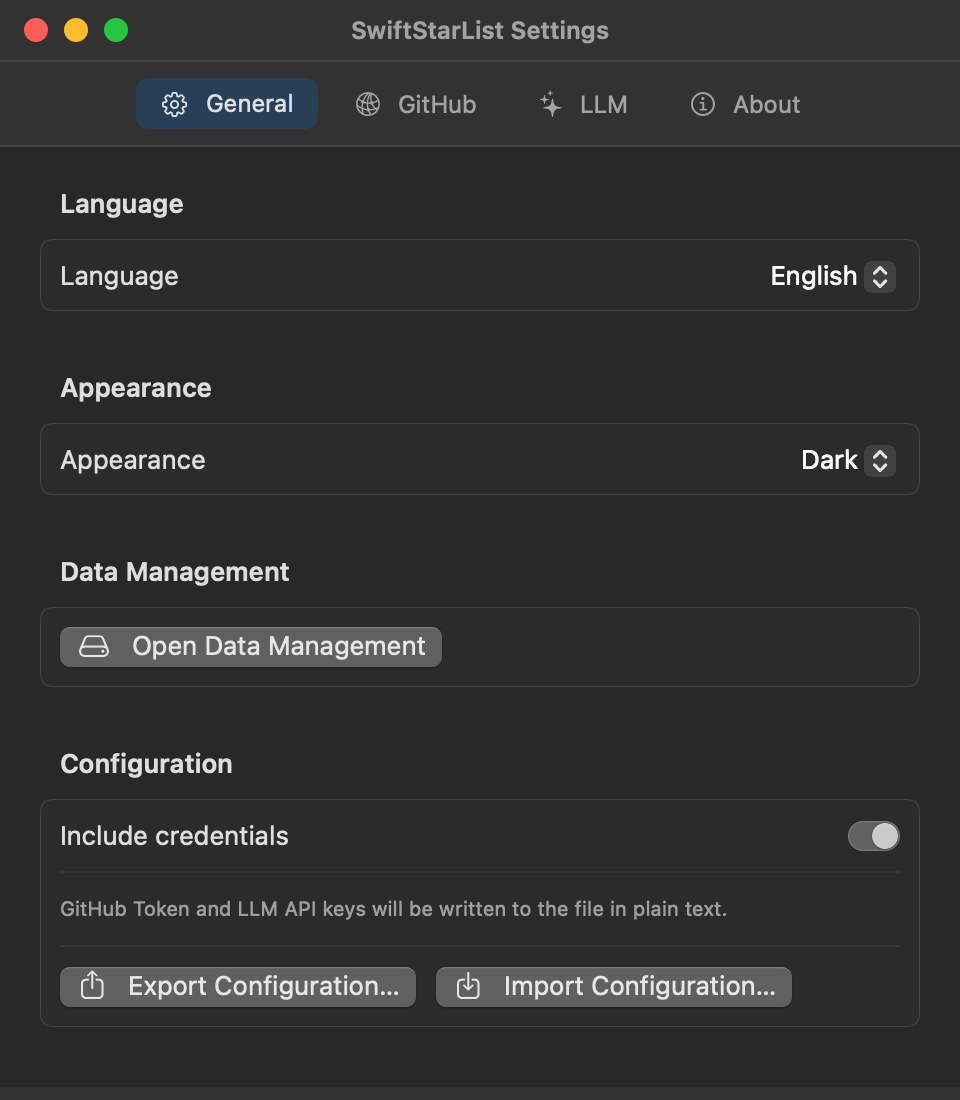
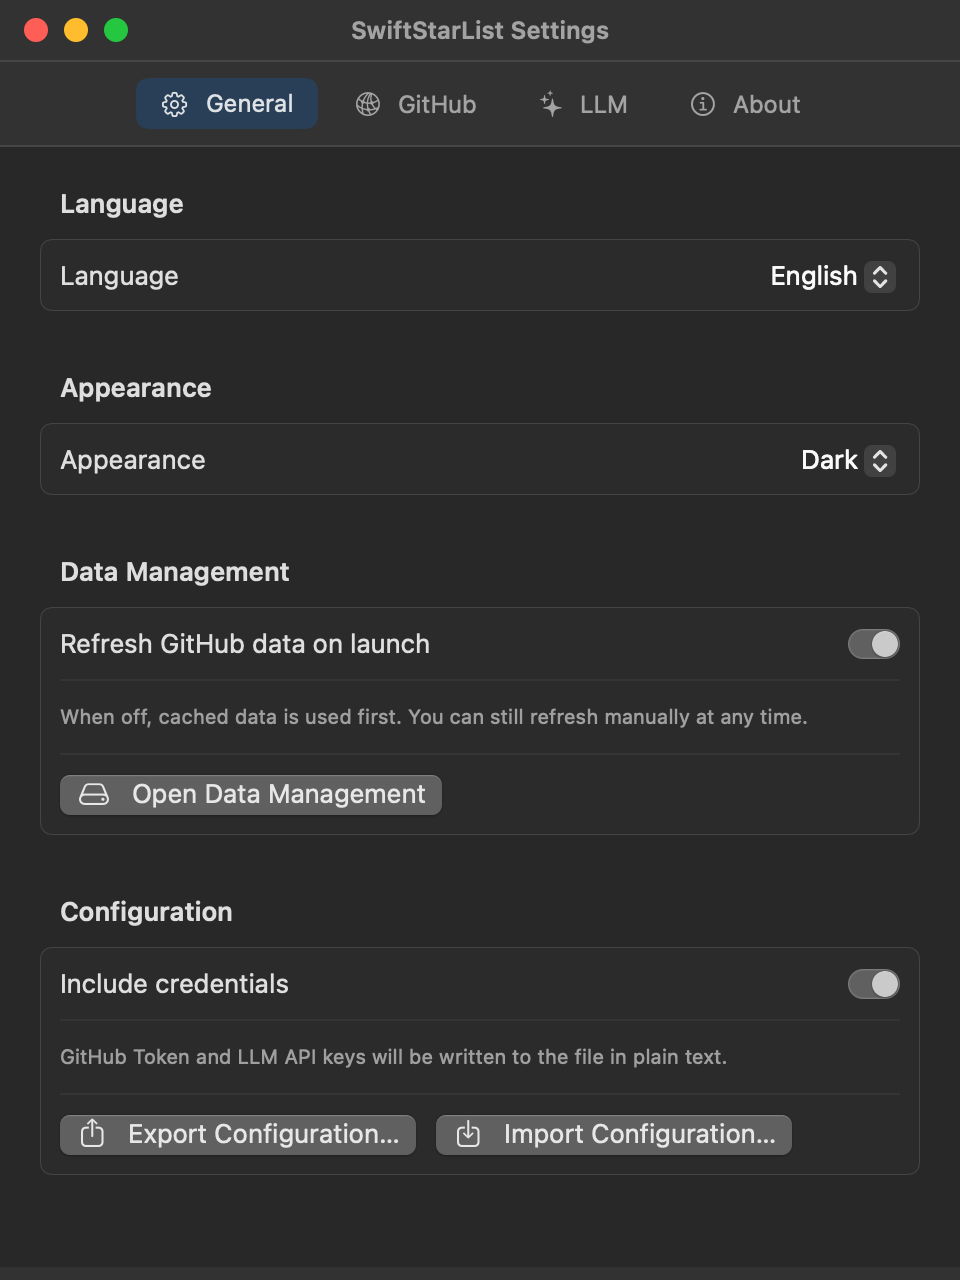
Add option to skip GitHub refresh on launch

diff --git a/SwiftStarList/Models/SettingsModels.swift b/SwiftStarList/Models/SettingsModels.swift
@@ -227,6 +227,8 @@ struct AppSettings: Codable {
     var autoAnalyze: Bool
     var language: AppLanguage
     var theme: AppTheme
+    /// 启动时是否自动刷新 GitHub Star 数据。
+    var refreshOnLaunch: Bool
 
     static let `default` = AppSettings(
         githubToken: "",
@@ -234,6 +236,48 @@ struct AppSettings: Codable {
         llmConfig: .default,
         autoAnalyze: false,
         language: .system,
-        theme: .system
+        theme: .system,
+        refreshOnLaunch: true
     )
+
+    init(
+        githubToken: String,
+        githubProxyConfig: ProxyConfig,
+        llmConfig: LLMConfig,
+        autoAnalyze: Bool,
+        language: AppLanguage,
+        theme: AppTheme,
+        refreshOnLaunch: Bool = true
+    ) {
+        self.githubToken = githubToken
+        self.githubProxyConfig = githubProxyConfig
+        self.llmConfig = llmConfig
+        self.autoAnalyze = autoAnalyze
+        self.language = language
+        self.theme = theme
+        self.refreshOnLaunch = refreshOnLaunch
+    }
+
+    enum CodingKeys: String, CodingKey {
+        case githubToken
+        case githubProxyConfig
+        case llmConfig
+        case autoAnalyze
+        case language
+        case theme
+        case refreshOnLaunch
+    }
+
+    init(from decoder: Decoder) throws {
+        let container = try decoder.container(keyedBy: CodingKeys.self)
+
+        githubToken = try container.decode(String.self, forKey: .githubToken)
+        githubProxyConfig = try container.decode(ProxyConfig.self, forKey: .githubProxyConfig)
+        llmConfig = try container.decode(LLMConfig.self, forKey: .llmConfig)
+        autoAnalyze = try container.decode(Bool.self, forKey: .autoAnalyze)
+        language = try container.decode(AppLanguage.self, forKey: .language)
+        theme = try container.decode(AppTheme.self, forKey: .theme)
+        // 旧版本没有该字段时默认开启，保持原有启动刷新行为。
+        refreshOnLaunch = try container.decodeIfPresent(Bool.self, forKey: .refreshOnLaunch) ?? true
+    }
 }

diff --git a/scripts/ScreenshotsMain.swift b/scripts/ScreenshotsMain.swift
@@ -120,8 +120,8 @@ struct ScreenshotMain {
             try? FileManager.default.removeItem(at: directory)
         case "settings-general":
             renderHosting(
-                SettingsShot(manager: manager, tab: .general),
-                size: CGSize(width: 480, height: 550),
+                SettingsShot(manager: manager, tab: .general, contentHeight: 560),
+                size: CGSize(width: 480, height: 640),
                 to: outputDirectory.appendingPathComponent("settings-general-\(language).png")
             )
         case "settings-about":
@@ -849,6 +849,7 @@ private struct DetailPreview: View {
 private struct SettingsShot: View {
     let manager: SettingsManager
     var tab: SettingsTab = .llm
+    var contentHeight: CGFloat = 470
 
     var body: some View {
         VStack(spacing: 0) {
@@ -869,7 +870,7 @@ private struct SettingsShot: View {
                     SettingsView(settingsManager: manager).llmTab
                 }
             }
-            .frame(width: 480, height: 470)
+            .frame(width: 480, height: contentHeight)
         }
         .frame(maxWidth: .infinity, maxHeight: .infinity, alignment: .top)
         .background(Color(nsColor: .windowBackgroundColor))

diff --git a/SwiftStarList/Services/Strings.swift b/SwiftStarList/Services/Strings.swift
@@ -121,6 +121,8 @@ struct Strings {
     let languageSection: String
     let generalTab: String
     let themeSection: String
+    let refreshOnLaunch: String
+    let refreshOnLaunchHint: String
     let systemLanguage: String
     let systemTheme: String
     let lightTheme: String
@@ -248,6 +250,8 @@ struct Strings {
         languageSection: "语言",
         generalTab: "通用",
         themeSection: "外观",
+        refreshOnLaunch: "打开时刷新 GitHub 数据",
+        refreshOnLaunchHint: "关闭后将优先使用本地缓存，仍可随时手动刷新。",
         systemLanguage: "跟随系统",
         systemTheme: "跟随系统",
         lightTheme: "浅色",
@@ -376,6 +380,8 @@ struct Strings {
         languageSection: "Language",
         generalTab: "General",
         themeSection: "Appearance",
+        refreshOnLaunch: "Refresh GitHub data on launch",
+        refreshOnLaunchHint: "When off, cached data is used first. You can still refresh manually at any time.",
         systemLanguage: "System",
         systemTheme: "System",
         lightTheme: "Light",

diff --git a/SwiftStarList/Views/StarListView.swift b/SwiftStarList/Views/StarListView.swift
@@ -72,8 +72,10 @@ struct StarListView: View {
             }
             .task {
                 viewModel.loadFromCache()
-                // 有缓存时也继续后台刷新；失败会显示非阻塞错误提示。
-                await viewModel.fetchAll(settings: settingsManager.settings)
+                // 关闭「打开时刷新」后优先使用缓存；首次运行没有缓存时仍需拉取一次。
+                if settingsManager.settings.refreshOnLaunch || viewModel.repos.isEmpty {
+                    await viewModel.fetchAll(settings: settingsManager.settings)
+                }
             }
         } detail: {
             if let repo = selectedRepo {

diff --git a/SwiftStarList/Views/SettingsView.swift b/SwiftStarList/Views/SettingsView.swift
@@ -118,6 +118,12 @@ struct SettingsView: View {
             }
 
             Section(L.d.dataManagement) {
+                Toggle(L.s.refreshOnLaunch, isOn: $settingsManager.settings.refreshOnLaunch)
+
+                Text(L.s.refreshOnLaunchHint)
+                    .font(.caption)
+                    .foregroundColor(.secondary)
+
                 Button {
                     DataManagementWindowController.shared.show(
                         settingsManager: settingsManager,

diff --git a/README.md b/README.md
@@ -63,6 +63,8 @@ If you use a local LLM service or a proxy on your LAN, macOS may ask for Local N
 
 The whole configuration can be exported and imported from Settings → General. Credentials are included by default; disable “Include credentials” if you do not want to write secrets to the file.
 
+The star list refreshes on every launch by default. Turn off “Refresh GitHub data on launch” in Settings → General to start from cached data and refresh manually.
+
 ![General settings](docs/settings-general-en.png)
 
 ## Build
